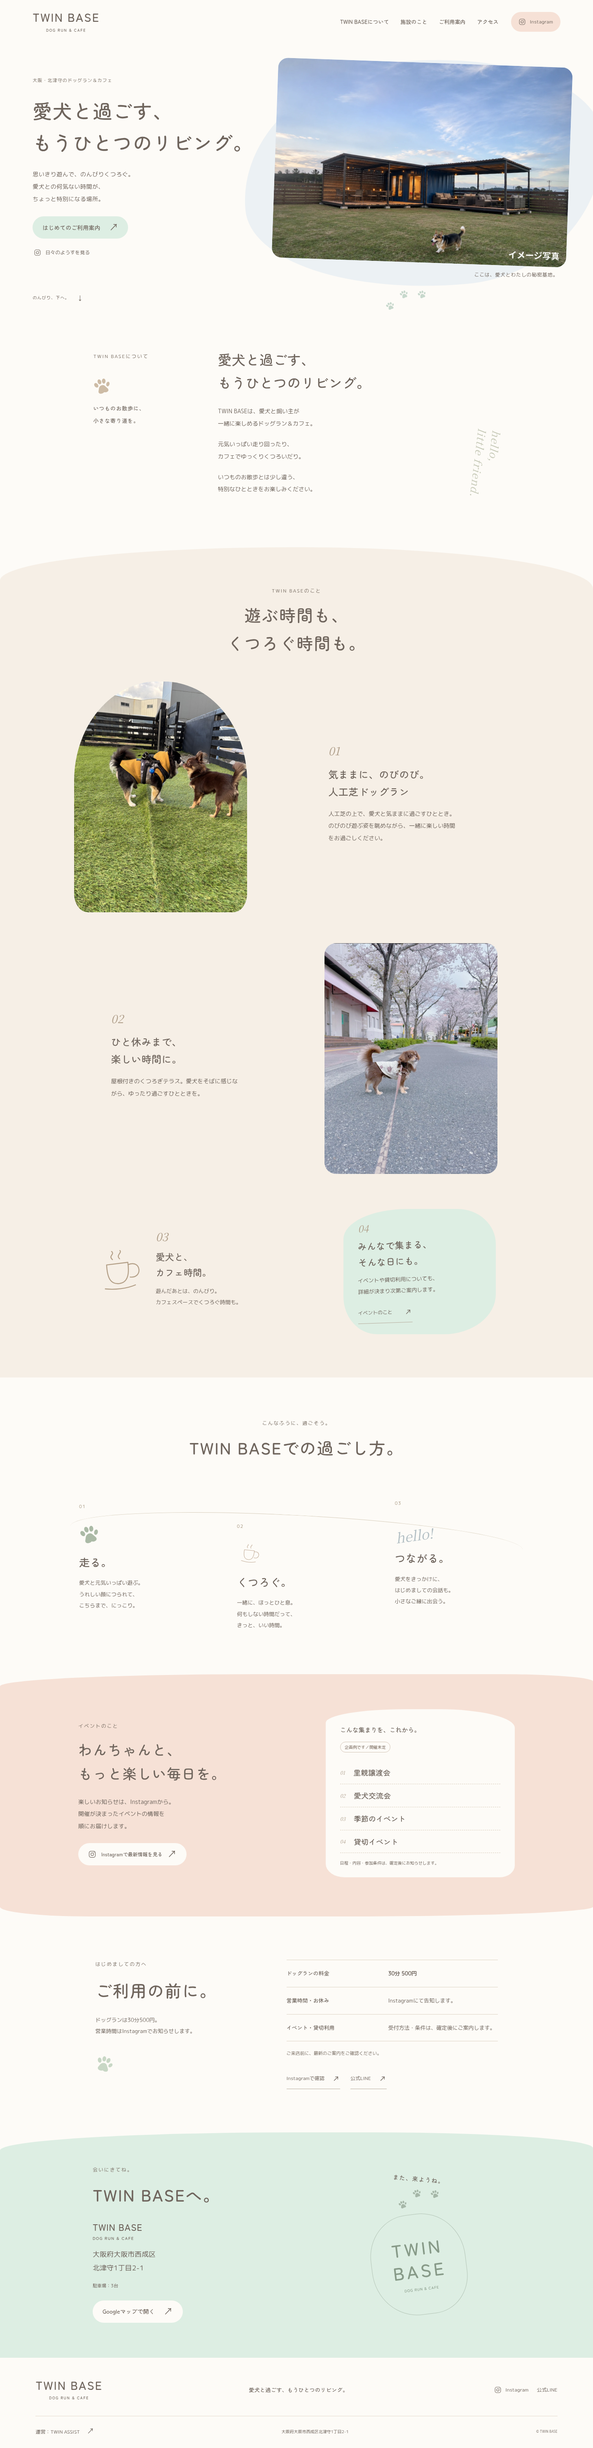
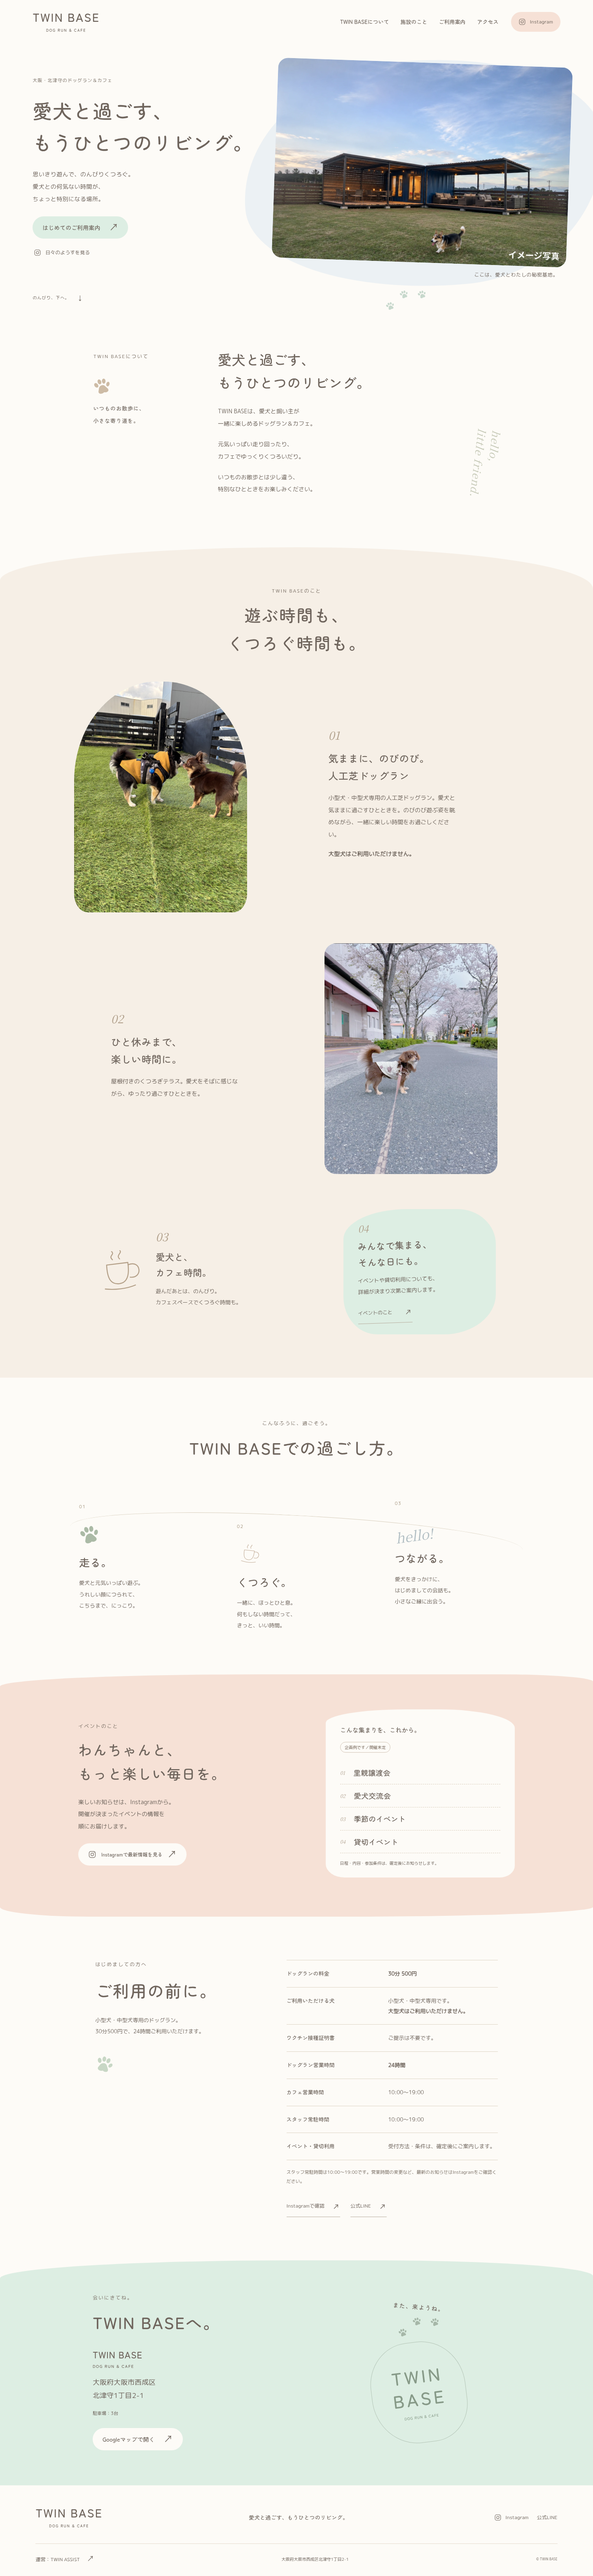
Add confirmed TWIN BASE dog size rules and separate operating hours

diff --git a/public/twin-base/index.html b/public/twin-base/index.html
@@ -7,10 +7,10 @@
 <main id="main">
 <section class="tb-hero" aria-labelledby="tb-hero-title"><div class="tb-hero-cloud" aria-hidden="true"></div><div class="tb-hero-copy"><span class="tb-eyebrow">大阪・北津守のドッグラン＆カフェ</span><h1 id="tb-hero-title">愛犬と過ごす、<br>もうひとつの<br class="tb-phone-break">リビング。</h1><p>思いきり遊んで、のんびりくつろぐ。<br>愛犬との何気ない時間が、<br>ちょっと特別になる場所。</p><div class="tb-hero-actions"><a class="tb-button tb-button-mint" href="#guide">はじめてのご利用案内 <span aria-hidden="true">↗</span></a><button class="tb-social-text" data-social="instagram" type="button"><svg aria-hidden="true"><use href="#instagram"/></svg>日々のようすを見る</button></div></div><figure class="tb-hero-photo"><div class="tb-media tb-media-hero"><img data-base-asset="hero" src="/twin-base/assets/facility-hero.webp" width="1800" height="1222" alt="コンテナ型施設と芝生で遊ぶコーギーのイメージ写真" fetchpriority="high"><div class="tb-photo-pending" hidden><span class="tb-photo-sky" aria-hidden="true"></span><svg aria-hidden="true"><use href="#paw"/></svg><span>施設写真を準備しています</span><small>提供写真の原本を反映予定です</small></div></div><figcaption>ここは、愛犬とわたしの秘密基地。</figcaption></figure><div class="tb-paw-trail" aria-hidden="true"><svg><use href="#paw"/></svg><svg><use href="#paw"/></svg><svg><use href="#paw"/></svg></div><a class="tb-scroll" href="#about">のんびり、下へ。<span aria-hidden="true">↓</span></a></section>
 <section id="about" class="tb-about tb-reveal" aria-labelledby="tb-about-title"><div class="tb-about-note"><span class="tb-eyebrow">TWIN BASEについて</span><svg aria-hidden="true"><use href="#paw"/></svg><span>いつものお散歩に、<br>小さな寄り道を。</span></div><div class="tb-about-copy"><h2 id="tb-about-title">愛犬と過ごす、<br>もうひとつのリビング。</h2><p>TWIN BASEは、愛犬と飼い主が<br class="tb-desktop-break">一緒に楽しめるドッグラン＆カフェ。</p><p>元気いっぱい走り回ったり、<br>カフェでゆっくりくつろいだり。</p><p>いつものお散歩とは少し違う、<br>特別なひとときをお楽しみください。</p></div><div class="tb-about-word" aria-hidden="true">hello,<br>little friend.</div></section>
-<section id="features" class="tb-features" aria-labelledby="tb-features-title"><div class="tb-section-title tb-reveal"><span class="tb-eyebrow">TWIN BASEのこと</span><h2 id="tb-features-title">遊ぶ時間も、<br>くつろぐ時間も。</h2></div><article class="tb-feature tb-feature-run tb-reveal"><div class="tb-feature-photo tb-media tb-media-arch"><img data-base-asset="dogrun" src="/twin-base/assets/hero-dogs.jpg" width="1050" height="1400" alt="人工芝ドッグランでふれあう2匹の犬" loading="lazy"><div class="tb-photo-pending" hidden><svg aria-hidden="true"><use href="#paw"/></svg><span>施設写真を準備中</span></div></div><div class="tb-feature-copy"><span class="tb-number">01</span><h3>気ままに、のびのび。<br>人工芝ドッグラン</h3><p>人工芝の上で、愛犬と気ままに過ごすひととき。のびのび遊ぶ姿を眺めながら、一緒に楽しい時間をお過ごしください。</p></div></article><article class="tb-feature tb-feature-terrace tb-reveal"><div class="tb-feature-copy"><span class="tb-number">02</span><h3>ひと休みまで、<br>楽しい時間に。</h3><p>屋根付きのくつろぎテラス。愛犬をそばに感じながら、ゆったり過ごすひとときを。</p></div><div class="tb-feature-photo tb-media tb-media-soft"><img data-base-asset="facility" src="/twin-base/assets/sakura-dog.jpg" width="869" height="1884" alt="桜並木で散歩を楽しむ犬の写真" loading="lazy"><div class="tb-photo-pending" hidden><svg aria-hidden="true"><use href="#cup"/></svg><span>写真を準備中</span></div></div></article><div class="tb-little-features"><article class="tb-cafe-note tb-reveal"><svg class="tb-cup" aria-hidden="true"><use href="#cup"/></svg><div><span class="tb-number">03</span><h3>愛犬と、<br>カフェ時間。</h3><p>遊んだあとは、のんびり。<br>カフェスペースでくつろぐ時間も。</p></div></article><article class="tb-private-note tb-reveal"><span class="tb-number">04</span><h3>みんなで集まる、<br>そんな日にも。</h3><p>イベントや貸切利用についても、<br>詳細が決まり次第ご案内します。</p><a class="tb-text-link" href="#events">イベントのこと <span aria-hidden="true">↗</span></a></article></div></section>
+<section id="features" class="tb-features" aria-labelledby="tb-features-title"><div class="tb-section-title tb-reveal"><span class="tb-eyebrow">TWIN BASEのこと</span><h2 id="tb-features-title">遊ぶ時間も、<br>くつろぐ時間も。</h2></div><article class="tb-feature tb-feature-run tb-reveal"><div class="tb-feature-photo tb-media tb-media-arch"><img data-base-asset="dogrun" src="/twin-base/assets/hero-dogs.jpg" width="1050" height="1400" alt="人工芝ドッグランでふれあう2匹の犬" loading="lazy"><div class="tb-photo-pending" hidden><svg aria-hidden="true"><use href="#paw"/></svg><span>施設写真を準備中</span></div></div><div class="tb-feature-copy"><span class="tb-number">01</span><h3>気ままに、のびのび。<br>人工芝ドッグラン</h3><p>小型犬・中型犬専用の人工芝ドッグラン。愛犬と気ままに過ごすひとときを。のびのび遊ぶ姿を眺めながら、一緒に楽しい時間をお過ごしください。</p><p><strong>大型犬はご利用いただけません。</strong></p></div></article><article class="tb-feature tb-feature-terrace tb-reveal"><div class="tb-feature-copy"><span class="tb-number">02</span><h3>ひと休みまで、<br>楽しい時間に。</h3><p>屋根付きのくつろぎテラス。愛犬をそばに感じながら、ゆったり過ごすひとときを。</p></div><div class="tb-feature-photo tb-media tb-media-soft"><img data-base-asset="facility" src="/twin-base/assets/sakura-dog.jpg" width="869" height="1884" alt="桜並木で散歩を楽しむ犬の写真" loading="lazy"><div class="tb-photo-pending" hidden><svg aria-hidden="true"><use href="#cup"/></svg><span>写真を準備中</span></div></div></article><div class="tb-little-features"><article class="tb-cafe-note tb-reveal"><svg class="tb-cup" aria-hidden="true"><use href="#cup"/></svg><div><span class="tb-number">03</span><h3>愛犬と、<br>カフェ時間。</h3><p>遊んだあとは、のんびり。<br>カフェスペースでくつろぐ時間も。</p></div></article><article class="tb-private-note tb-reveal"><span class="tb-number">04</span><h3>みんなで集まる、<br>そんな日にも。</h3><p>イベントや貸切利用についても、<br>詳細が決まり次第ご案内します。</p><a class="tb-text-link" href="#events">イベントのこと <span aria-hidden="true">↗</span></a></article></div></section>
 <section id="enjoy" class="tb-enjoy" aria-labelledby="tb-enjoy-title"><div class="tb-section-title tb-reveal"><span class="tb-eyebrow">こんなふうに、過ごそう。</span><h2 id="tb-enjoy-title">TWIN BASEでの過ごし方。</h2></div><div class="tb-enjoy-scenes"><article class="tb-scene tb-scene-play tb-reveal"><span>01</span><svg aria-hidden="true"><use href="#paw"/></svg><h3>走る。</h3><p>愛犬と元気いっぱい遊ぶ。<br>うれしい顔につられて、<br>こちらまで、にっこり。</p></article><article class="tb-scene tb-scene-rest tb-reveal"><span>02</span><svg aria-hidden="true"><use href="#cup"/></svg><h3>くつろぐ。</h3><p>一緒に、ほっとひと息。<br>何もしない時間だって、<br>きっと、いい時間。</p></article><article class="tb-scene tb-scene-meet tb-reveal"><span>03</span><span class="tb-scene-doodle" aria-hidden="true">hello!</span><h3>つながる。</h3><p>愛犬をきっかけに、<br>はじめましての会話も。<br>小さなご縁に出会う。</p></article></div></section>
 <section id="events" class="tb-events" aria-labelledby="tb-events-title"><div class="tb-event-copy tb-reveal"><span class="tb-eyebrow">イベントのこと</span><h2 id="tb-events-title">わんちゃんと、<br>もっと楽しい毎日を。</h2><p>楽しいお知らせは、Instagramから。<br>開催が決まったイベントの情報を<br>順にお届けします。</p><button class="tb-button tb-button-white" data-social="instagram" type="button"><svg aria-hidden="true"><use href="#instagram"/></svg>Instagramで最新情報を見る <span aria-hidden="true">↗</span></button></div><div class="tb-event-board tb-reveal"><span class="tb-board-label">こんな集まりを、これから。</span><p class="tb-status">企画例です／開催未定</p><ul><li><span>01</span>里親譲渡会</li><li><span>02</span>愛犬交流会</li><li><span>03</span>季節のイベント</li><li><span>04</span>貸切イベント</li></ul><small>日程・内容・参加条件は、確定後にお知らせします。</small></div></section>
-<section id="guide" class="tb-guide" aria-labelledby="tb-guide-title"><div class="tb-guide-heading tb-reveal"><span class="tb-eyebrow">はじめましての方へ</span><h2 id="tb-guide-title">ご利用の前に。</h2><p>ドッグランは30分500円。<br>営業時間はInstagramでお知らせします。</p><svg aria-hidden="true"><use href="#paw"/></svg></div><div class="tb-guide-details tb-reveal"><dl><div><dt>ドッグランの料金</dt><dd><strong>30分 500円</strong></dd></div><div><dt>営業時間・お休み</dt><dd>Instagramにて告知します。</dd></div><div><dt>イベント・貸切利用</dt><dd>受付方法・条件は、確定後にご案内します。</dd></div></dl><p class="tb-guide-note">ご来店前に、最新のご案内をご確認ください。</p><div class="tb-guide-socials"><button data-social="instagram" class="tb-text-link" type="button">Instagramで確認 <span aria-hidden="true">↗</span></button><button data-social="line" class="tb-text-link" type="button">公式LINE <span aria-hidden="true">↗</span></button></div></div></section>
+<section id="guide" class="tb-guide" aria-labelledby="tb-guide-title"><div class="tb-guide-heading tb-reveal"><span class="tb-eyebrow">はじめましての方へ</span><h2 id="tb-guide-title">ご利用の前に。</h2><p>小型犬・中型犬専用のドッグラン。<br>30分500円で、24時間ご利用いただけます。</p><svg aria-hidden="true"><use href="#paw"/></svg></div><div class="tb-guide-details tb-reveal"><dl><div><dt>ドッグランの料金</dt><dd><strong>30分 500円</strong></dd></div><div><dt>ご利用いただける犬</dt><dd>小型犬・中型犬専用です。<br><strong>大型犬はご利用いただけません。</strong></dd></div><div><dt>ワクチン接種証明書</dt><dd>ご提示は不要です。</dd></div><div><dt>ドッグラン営業時間</dt><dd><strong>24時間</strong></dd></div><div><dt>カフェ営業時間</dt><dd>10:00〜19:00</dd></div><div><dt>スタッフ常駐時間</dt><dd>10:00〜19:00</dd></div><div><dt>イベント・貸切利用</dt><dd>受付方法・条件は、確定後にご案内します。</dd></div></dl><p class="tb-guide-note">スタッフ常駐時間は10:00〜19:00です。営業時間の変更など、最新のお知らせはInstagramをご確認ください。</p><div class="tb-guide-socials"><button data-social="instagram" class="tb-text-link" type="button">Instagramで確認 <span aria-hidden="true">↗</span></button><button data-social="line" class="tb-text-link" type="button">公式LINE <span aria-hidden="true">↗</span></button></div></div></section>
 <section id="access" class="tb-access" aria-labelledby="tb-access-title"><div class="tb-access-copy tb-reveal"><span class="tb-eyebrow">会いにきてね。</span><h2 id="tb-access-title">TWIN BASEへ。</h2><p class="tb-access-name">TWIN BASE <span>DOG RUN & CAFE</span></p><address>大阪府大阪市西成区<br>北津守1丁目2-1</address><p class="tb-parking-note">駐車場：3台</p><a class="tb-button tb-button-white" href="https://maps.app.goo.gl/CMuM3UB9zTNHnDWb7" target="_blank" rel="noopener noreferrer">Googleマップで開く <span aria-hidden="true">↗</span></a></div><div class="tb-access-art" aria-hidden="true"><span>また、来ようね。</span><div class="tb-access-paws"><svg><use href="#paw"/></svg><svg><use href="#paw"/></svg><svg><use href="#paw"/></svg></div><span class="tb-access-stamp">TWIN<br>BASE<small>DOG RUN & CAFE</small></span></div></section>
 </main>
 <footer class="tb-footer"><div class="tb-footer-top"><a class="tb-logo tb-footer-logo" href="/twin-base/" aria-label="TWIN BASE ホーム"><img data-base-asset="logo" width="400" height="260" alt="TWIN BASEのロゴ" hidden><span class="tb-brand-fallback"><strong>TWIN BASE</strong><small>DOG RUN & CAFE</small></span></a><p>愛犬と過ごす、もうひとつのリビング。</p><div class="tb-footer-socials"><button data-social="instagram" type="button"><svg aria-hidden="true"><use href="#instagram"/></svg>Instagram</button><button data-social="line" type="button">公式LINE</button></div></div><div class="tb-footer-bottom"><a href="/">運営：TWIN ASSIST <span aria-hidden="true">↗</span></a><span>大阪府大阪市西成区北津守1丁目2-1</span><small>© TWIN BASE</small></div></footer>

diff --git a/docs/TWIN_BASE_Implementation.md b/docs/TWIN_BASE_Implementation.md
@@ -41,3 +41,7 @@ The user supplied the original 3240×2200 PNG in a ZIP. It is now the hero and t
 ## Rest feature photo — 2026-11-17
 
 The “ひと休みまで、楽しい時間に。” section now uses the supplied cherry-blossom/dog JPG from its ZIP, copied unchanged as `sakura-dog.jpg`. The centered 3:4 CSS frame displays the photograph area while hiding the screenshot’s black bars. The hero and dog-run photographs remain separate. Alt text describes the actual dog and cherry trees, not a terrace.
+
+## Usage rules and hours — 2026-11-17
+
+Confirmed by the user: small/medium dogs only; large dogs cannot use the run; vaccination certificate presentation is not required. Dog run operates 24 hours, café and staffed hours are 10:00–19:00. The previous Instagram-only hours notice is superseded; Instagram remains the source for changes. No assumption of 24-hour staffing, vaccination exemption, year-round operation, or weight thresholds is added.
